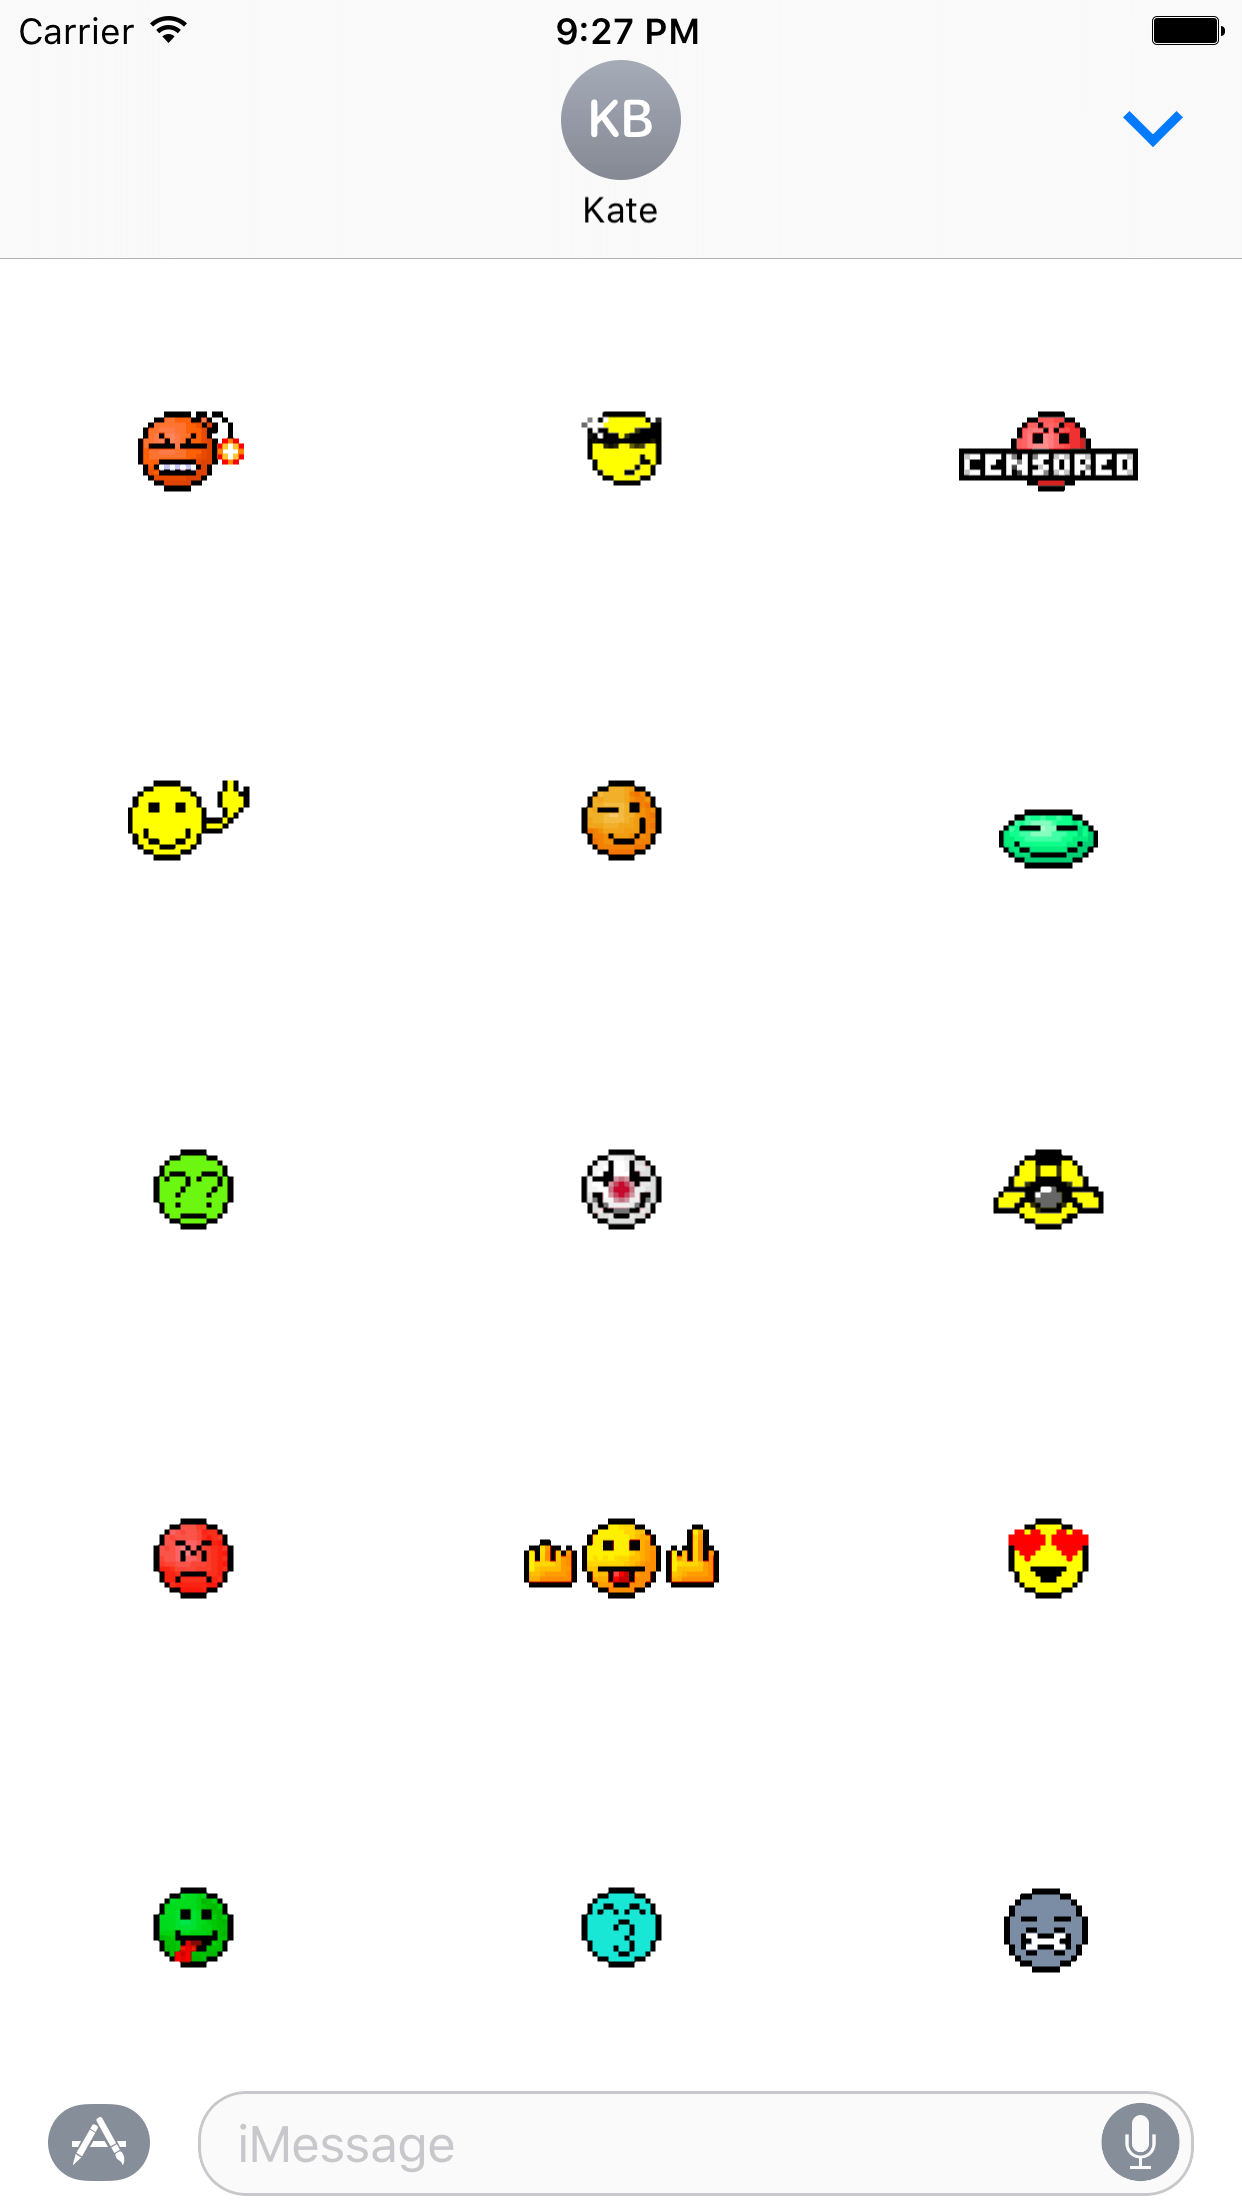
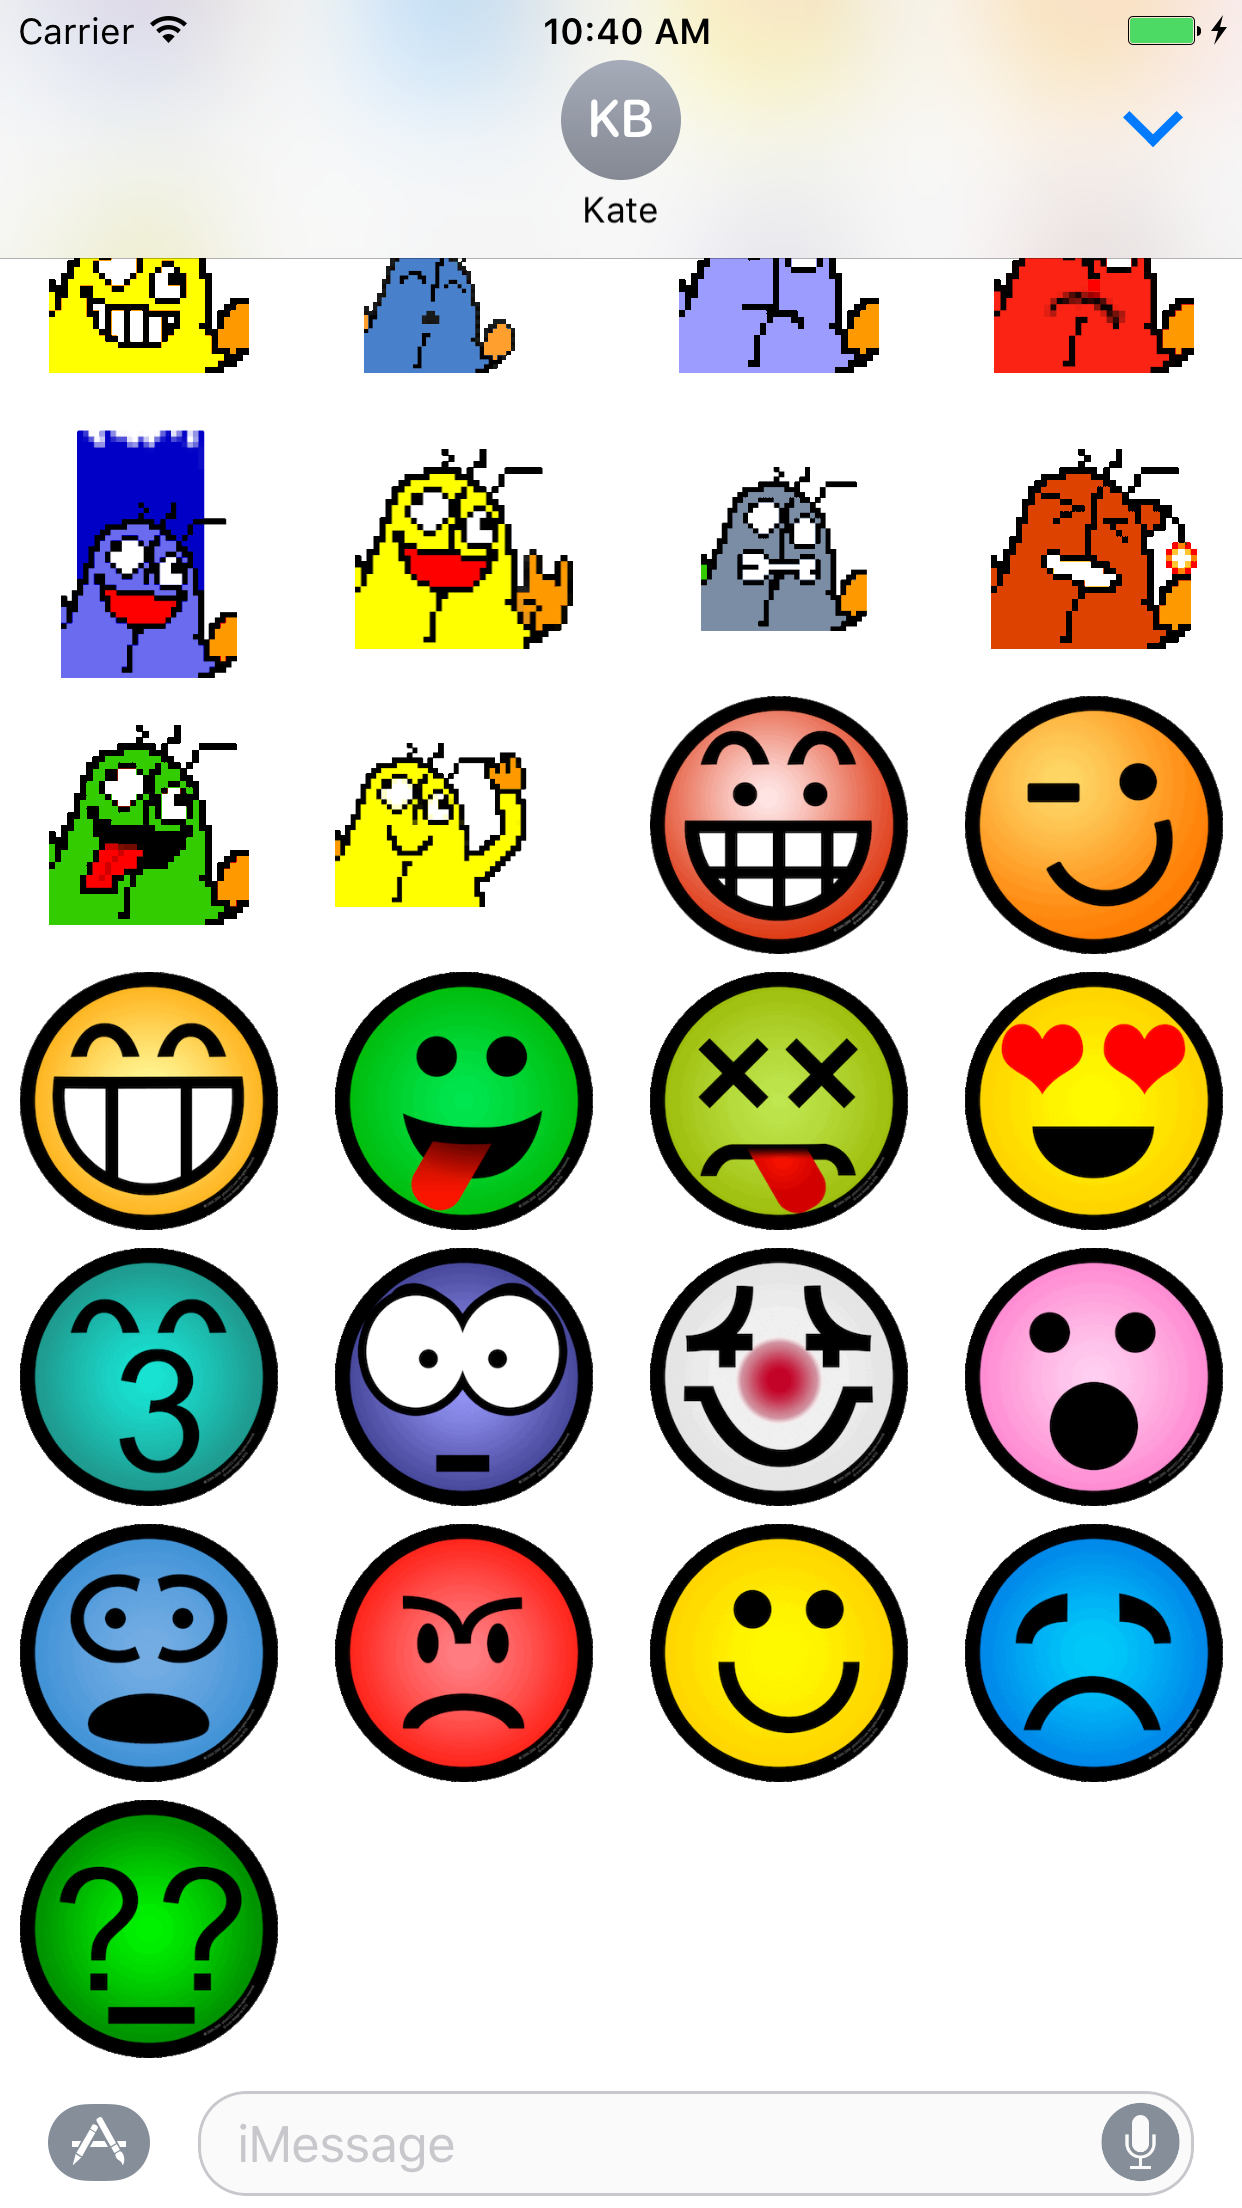
updated screenshot for hkg stickers

diff --git a/hkg-stickers.html b/hkg-stickers.html
@@ -83,7 +83,7 @@
           </div>
           <div>
             <a href="hkg-icon-stickers-2.png" class="uk-panel image-shadow" data-uk-lightbox="{group:'screenshots'}">
-              <img src="hkg-icon-stickers-2.png" alt="" />
+              <img src="hkg-icon-stickers-3.png" alt="" />
             </a>
           </div>
         </div>
@@ -93,7 +93,8 @@
           搞笑高登icon貼圖，陸續會加入更多其他系列！<br>
           如有任何侵權問題，請與本人<a href="mailTo:colloquet@icloud.com">聯絡</a>！
         </h3>
-        <h3>鳴謝：高登icon，腦魔icon</h3>
+        <h3>高清版高登icon已獲得作者Ato巴打正式授權。</h3>
+        <h3>鳴謝：高登icon，腦魔icon，Ato巴打</h3>
         <img src="appstore-soon-badge.png" alt="" width="150">
       </div>
 
